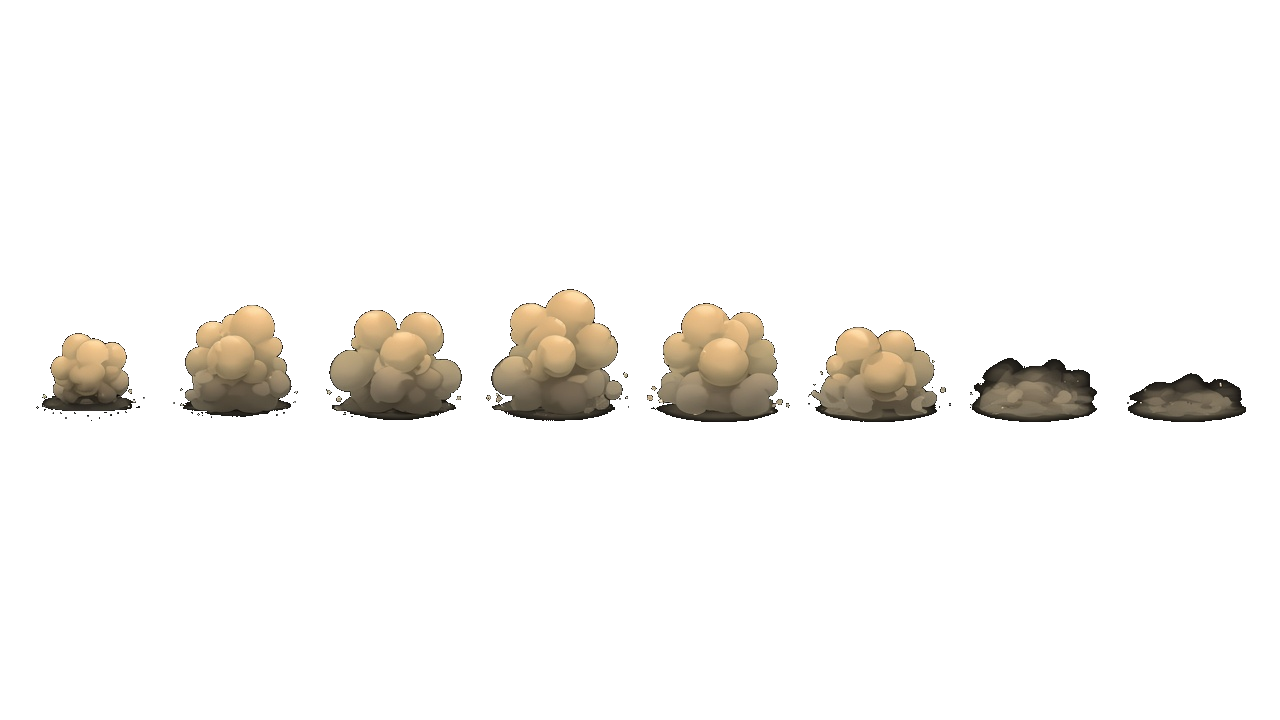
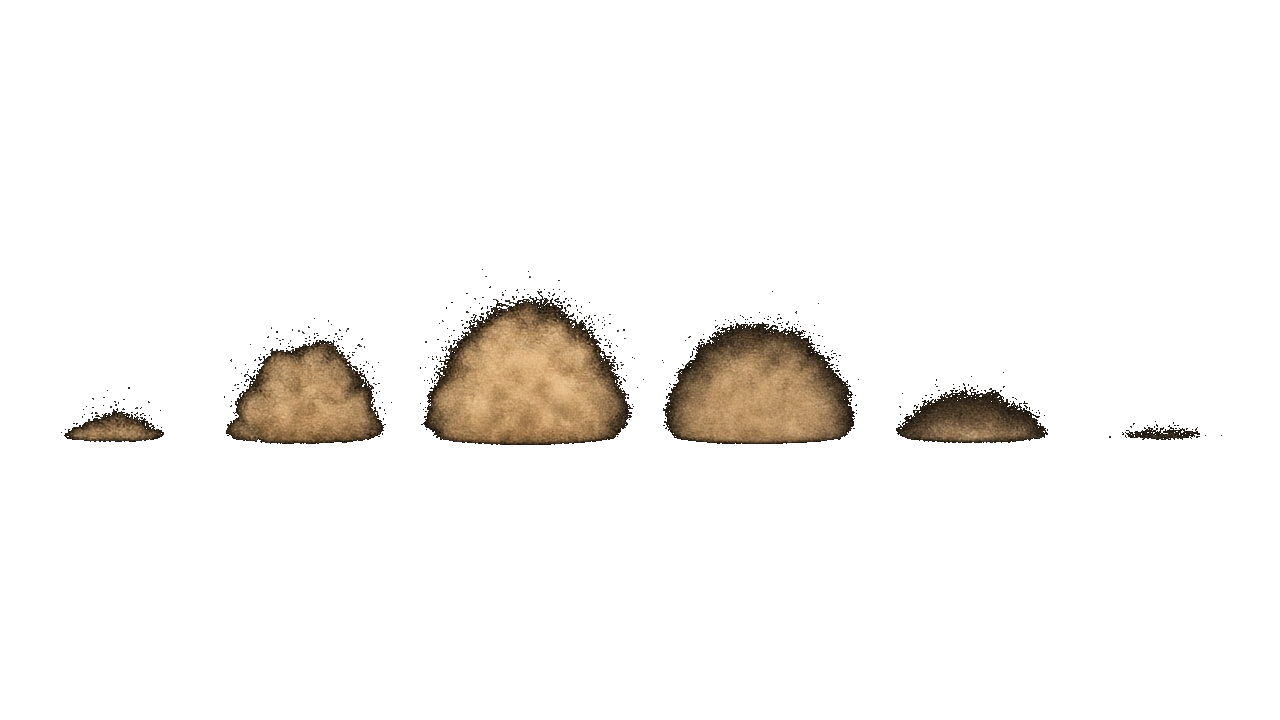
Wire the rest of the punch v3 combat pack.
Detonate and footstep dust use the transparent punch-v3 strips. Standing melee plays a caster windup that ends as contact starts. Ambush still slashes only after the back-tile plant, and dust still puffs only on a facing change or the final plant. The Mark Shot bow sheet already matches the attached PNG, so the locked 300ms windup stays.

Changed region(s): [[0.0312, 0.3972, 0.9688, 0.6417]]

diff --git a/docs/ship_log.md b/docs/ship_log.md
@@ -2,11 +2,23 @@
 
 Durable record of feel passes on the mobile track. Kit numbers in here are reminders of what stayed Locked. They are not a second source of truth. The legal sentences live in `docs/STASIUM_XII_GDD_handoff.md`.
 
-## 2026-09-26 — Combat contact punch v3
+## 2026-09-26 — Combat VFX punch v3
 
-Presentation only. No APK.
+Presentation only. No APK. Post-0.1.26.
 
-Hit flash, the damage float, and Ambush slash are the transparent punch-v3 strips under `art/vfx/scenario/`. Footstep dust, Mark Shot impact, Detonate, and the Mark Shot bow windup stay on their current plates. Ambush still plants on the back tile, then slashes. On contact the flash, the compact spark, the float, and the flinch share the resolve, and each one finishes inside 0.2–0.4s. The hit flash keeps its cyan and gold. Locked kit numbers, map geometry, and walks are unchanged.
+The transparent punch-v3 pack lives under `art/vfx/scenario/`:
+
+| Sheet | Path |
+| --- | --- |
+| Hit flash | `hit_flash.png` |
+| Damage float | `damage_float.png` |
+| Ambush slash | `ambush_slash.png` |
+| Detonate | `detonate_burst.png` |
+| Melee windup | `melee_windup.png` |
+| Footstep dust | `footstep_dust.png` |
+| Mark Shot bow | `mark_shot_cast.png` (same bytes as the attached bow; #175 timing stays 70+80+80+70) |
+
+Mark Shot impact stays the punch-v2 floor strip. Ambush still plants on the back tile, then slashes. Standing melee plays the windup on the caster and it ends as the contact starts. Dust still puffs only on a facing change and the final plant. On contact the flash, the compact spark, the float, and the flinch share the resolve, and each one finishes inside 0.2–0.4s. The hit flash keeps its cyan and gold. Locked kit numbers, map geometry, and walks are unchanged.
 
 ## 2026-09-26 — Mobile debug APK 0.1.26
 
